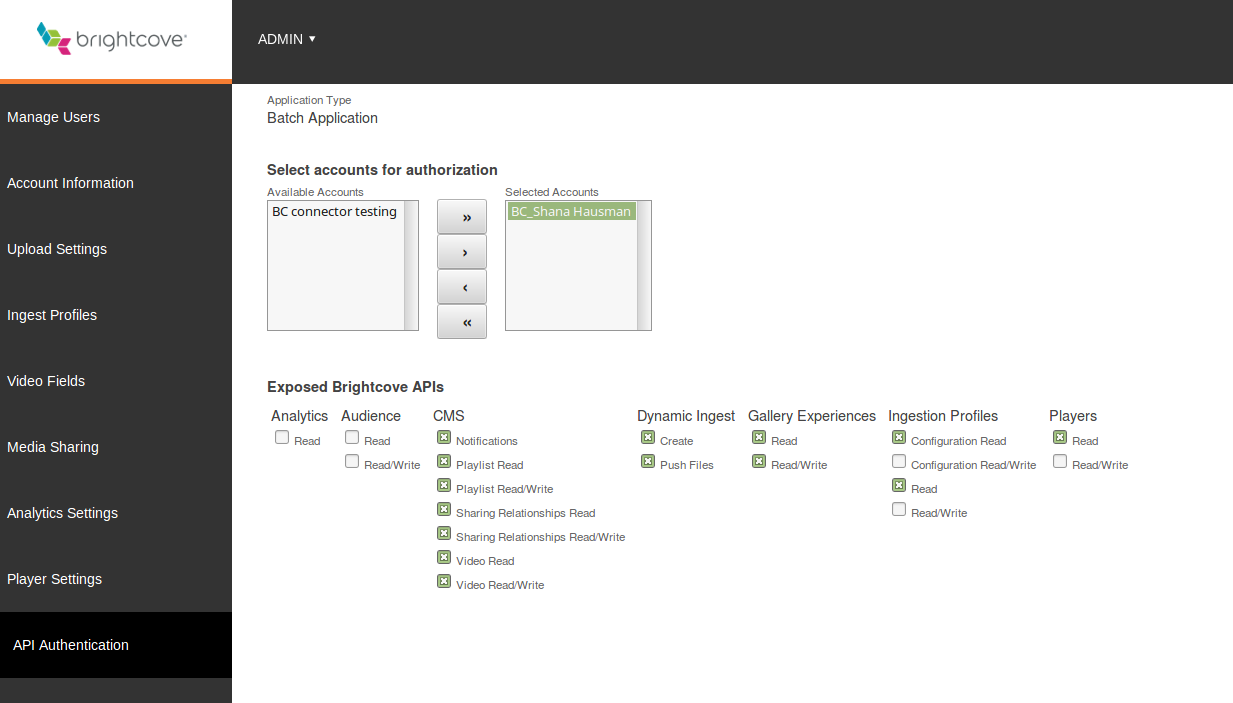
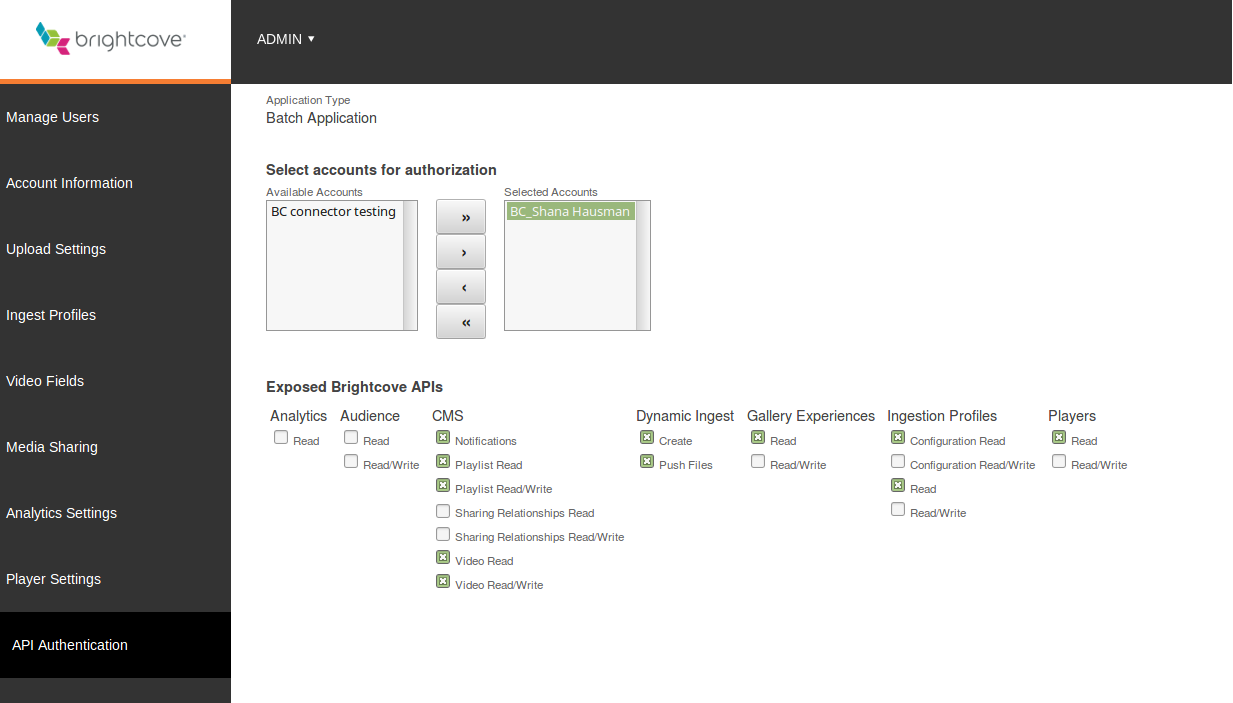
edited images and instructions

diff --git a/doc-assets/node/18580-wordpress-brightcove-connector-configuration/18580.html b/doc-assets/node/18580-wordpress-brightcove-connector-configuration/18580.html
@@ -22,11 +22,12 @@
           </figure>
         </li>
         <li>Fill in name and short description.</li>
-        <li>Select an account and all desired permissions. Hit save.
+        <li>Select an account. Pictured below are all required permissions.
           <figure class="bcls-figure">
             <img class="bcls-image" src="//learning-services-media.brightcove.com/doc-assets/node/18580-wordpress-brightcove-connector-configuration/recommended_permissions.png" alt= "Account and Permissions." width="800px">
           </figure>
         </li>
+        <li>Hit save.</li>
         <li>Client ID and Client Secret appear.
           <figure class="bcls-figure">
             <img class="bcls-image" src="//learning-services-media.brightcove.com/doc-assets/node/18580-wordpress-brightcove-connector-configuration/client-id-and-secret.png" alt= "Client ID and Client secret.">
